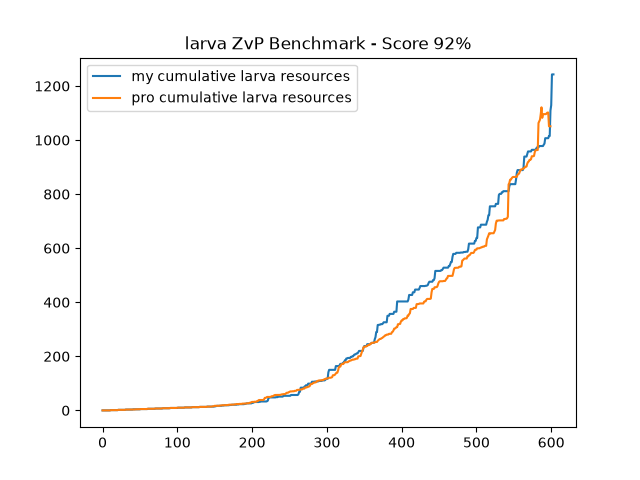
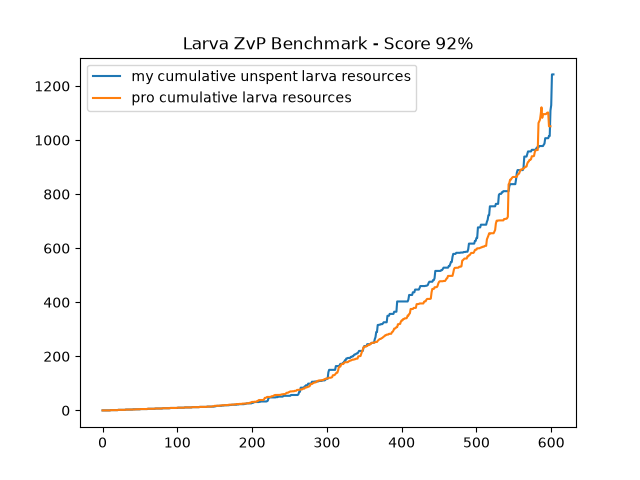
save

Changed region(s): [[0.2812, 0.0625, 0.75, 0.1875]]

diff --git a/src/output_html.html b/src/output_html.html
@@ -12,6 +12,9 @@
   <img src="../data/output/my_unspent_zvt_benchmark.png">
   <img src="../data/output/my_unspent_zvz_benchmark.png">
   <img src="../data/output/my_unspent_zvp_benchmark.png">
+  <img src="../data/output/my_larva_zvt_benchmark.png">
+  <img src="../data/output/my_larva_zvz_benchmark.png">
+  <img src="../data/output/my_larva_zvp_benchmark.png">
 
 </body>
 </html>
